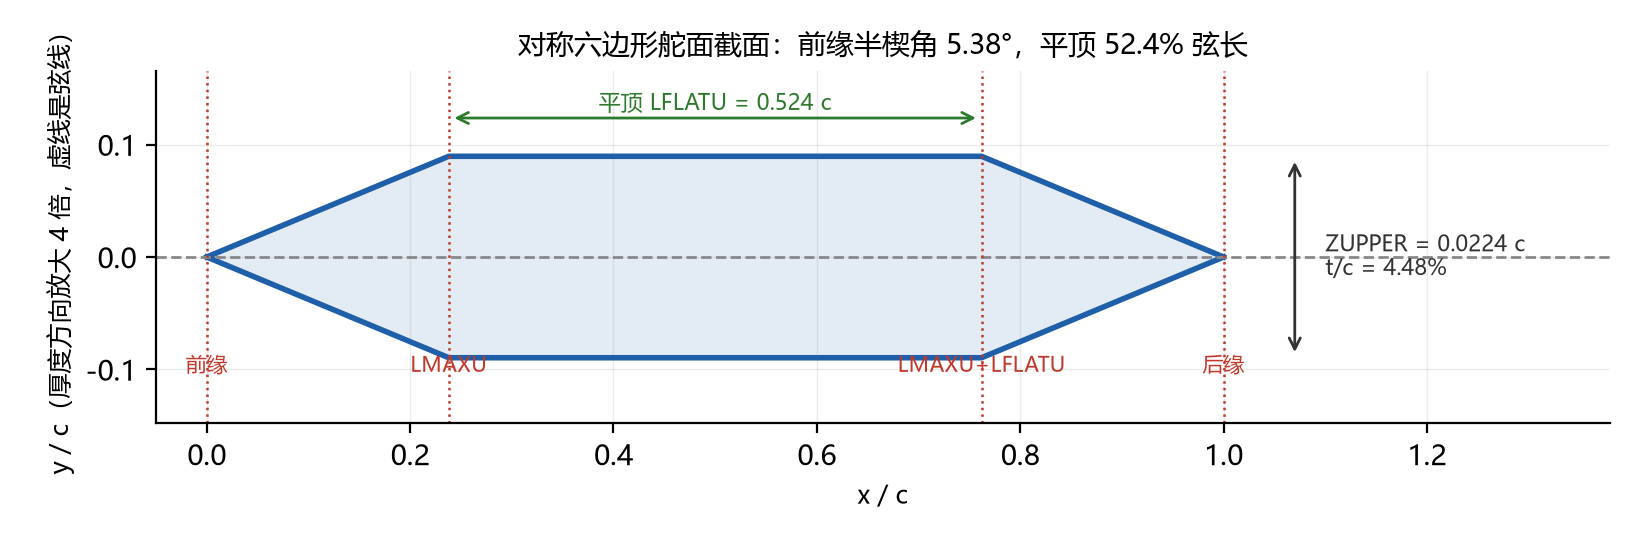
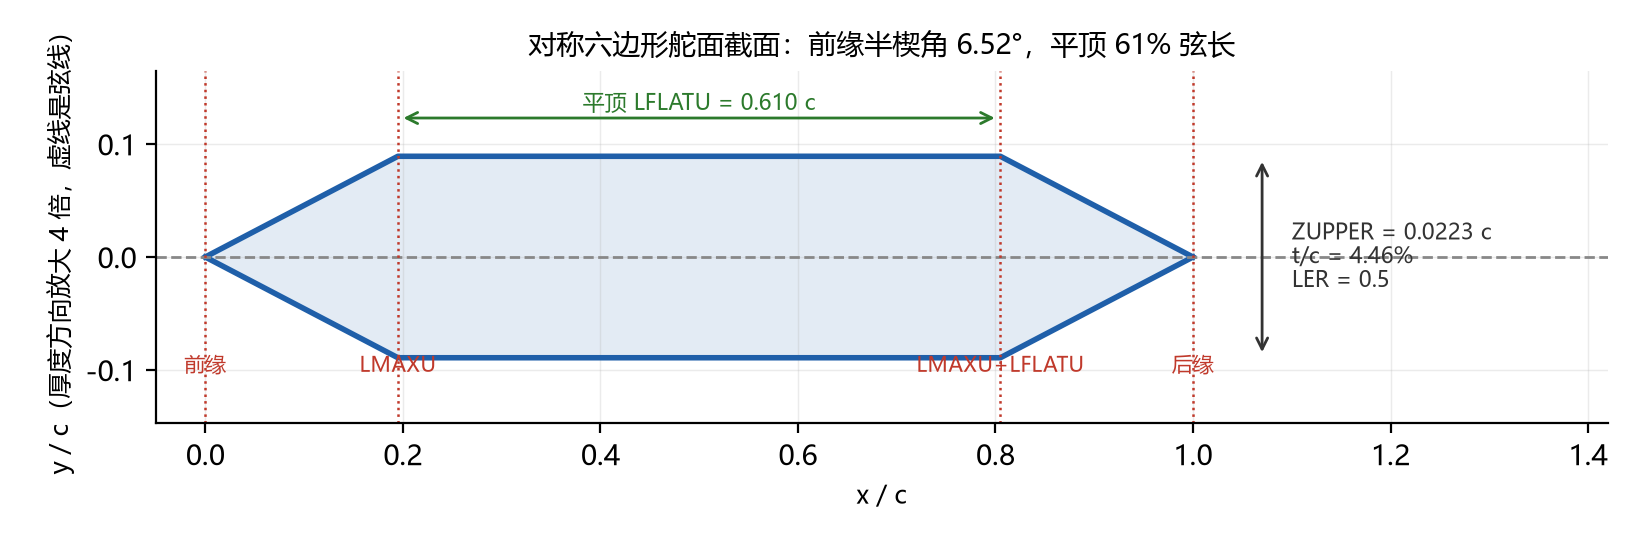
refactor: 翼型模块 naca_section.py 改名为 fin_section.py 并同步全部引用

diff --git a/DATCOM/scripts/04_pointnet_demo.py b/DATCOM/scripts/04_pointnet_demo.py
@@ -26,7 +26,7 @@
         根部弦长 c_root > 梢部弦长 c_tip；前缘后掠量 sweep_le ≡ c_root - c_tip，
         由前者自动派生（不单独填参数），保证后缘始终垂直于弹轴。
     建模方式: 在子午面 (x, r) 内画侧视梯形（根部贴在弹体圆柱表面上），
-    厚度按对称截面（六边形或 NACA）加在周向。翼型参数见 scripts/naca_section.py，
+    厚度按对称截面（六边形或 NACA）加在周向。翼型参数见 scripts/fin_section.py，
     与批量 DATCOM 使用同一份，根梢只是同一剖面按当地弦长缩放。
 
 采样: 默认按 CFD 关键部位加密，总点数不变。舵面、前缘/后缘、根梢、锥顶倒角、
@@ -66,7 +66,7 @@ from pathlib import Path
 
 import numpy as np
 
-from naca_section import FIN_SECTION as DEFAULT_FIN_SECTION, FinSection
+from fin_section import FIN_SECTION as DEFAULT_FIN_SECTION, FinSection
 
 # --------------------------------------------------------------------------- #
 # 输入 / 输出 / 参数配置（命令行参数覆盖这里的运行默认值）
@@ -84,7 +84,7 @@ MAIN_DIMENSIONS = (
     "L_N", "L", "D", "L_W", "C_RW", "C_TW", "B_W", "L_F", "C_RF", "C_TF", "B_F",
 )
 
-# 舵面截面与批量 DATCOM 共用 scripts/naca_section.py 顶部的类型开关和三个参数。
+# 舵面截面与批量 DATCOM 共用 scripts/fin_section.py 顶部的类型开关和三个参数。
 # 改截面类型、厚度、平顶长度或 LER 时，只改那一处。截面保持上下对称。
 FIN_SECTION = DEFAULT_FIN_SECTION
 DEFAULT_N_POINTS = 16384
@@ -194,13 +194,13 @@ class MissileGeometry:
     # --- 弹身 ---
     total_length: float = 3.69          # 总弹长：头部顶点 x=0 → 尾部端面 x=total_length（含头锥）
     body_radius: float = 0.09          # 弹身圆柱半径（尾部半径同值，不区分尾锥）
-    nose_length: float = 0.49           # 圆锥头锥轴向长度（总弹长的一部分）
+    nose_length: float = 0.46           # 圆锥头锥轴向长度（总弹长的一部分）
     nose_tip_fillet_ratio: float = 0.004         # 锥顶倒角半径 = ratio × total_length
     nose_tip_fillet_radius: float | None = None  # 直接给倒角半径(m)，非 None 时覆盖上面的比例
     nose_segments: int = 120           # 头锥母线离散段数
 
     # --- 舵面共同参数 ---
-    # 截面默认取 naca_section 的当前翼型（HEX 六边形 / NACA 四位数）。
+    # 截面默认取 fin_section 的当前翼型（HEX 六边形 / NACA 四位数）。
     # 绝对厚度 = 厚度比 × 当地弦长。
     section: FinSection = field(default_factory=lambda: FIN_SECTION)
     fin_azimuth_deg: tuple = (0.0, 90.0, 180.0, 270.0)  # 一组内 4 片，90° 等距

diff --git a/DATCOM/scripts/01_batch_datcom.py b/DATCOM/scripts/01_batch_datcom.py
@@ -43,7 +43,7 @@ DATCOM 建模约定（改动前务必读）：
        力矩参考点 XCG 默认取 L/2（可用 XCG_M 覆盖）。
     8. STA 固定写 1.0：本机 DATCOM 03/11 在第二个舵面组 STA=2.0 时会
        直接终止且不输出任何结果（已实测），所以两个舵面组都写 1.0。
-    9. 舵面翼型是对称截面，类型和三个参数定义在 scripts/naca_section.py：
+    9. 舵面翼型是对称截面，类型和三个参数定义在 scripts/fin_section.py：
        默认六边形（SECTYP = HEX，LER/ZUPPER/LMAXU/LFLATU 四个数组直接写进
        $FINSET，文件末尾不再有 NACA 卡）；也可以切成 NACA 四位数（SECTYP =
        NACA，截面写在末尾的 NACA-1-4-... 控制卡上）。两套舵面共用同一截面，
@@ -82,7 +82,7 @@ from datetime import datetime
 
 import pandas as pd
 
-from naca_section import FIN_SECTION as DEFAULT_FIN_SECTION, resolve_fin_section
+from fin_section import FIN_SECTION as DEFAULT_FIN_SECTION, resolve_fin_section
 
 # =============================================================================
 # 1. 用户配置区
@@ -145,7 +145,7 @@ TIMEOUT_SECONDS = 300
 # -----------------------------------------------------------------------------
 # 演示用基准几何。正式计算不读这里，只在 --demo 时使用。
 MISSILE_GEOMETRY = {
-    "L_N": 0.49,    # 鼻锥长度
+    "L_N": 0.46,    # 鼻锥长度
     "L": 3.69,      # 轴向总长
     "D": 0.18,      # 机身直径
     "L_W": 1.72,    # 前十字舵轴向位置（弹尖 → 舵根可见前缘）
@@ -186,7 +186,7 @@ CRUCIFORM_COUNT = 4
 # 力矩参考点轴向位置（m）。None = 取 L/2（弹身中点）。
 XCG_M = None
 
-# 舵面翼型。类型与三个默认值在 scripts/naca_section.py 顶部（SECTION_TYPE 选
+# 舵面翼型。类型与三个默认值在 scripts/fin_section.py 顶部（SECTION_TYPE 选
 # "HEX" 或 "NACA"），点云脚本使用同一份。演示算例可在 CASES 里用 "fin_section"
 # 字典覆盖其中几项，键名与所选截面类型的字段相同。
 FIN_SECTION = DEFAULT_FIN_SECTION
@@ -256,7 +256,7 @@ GEOMETRY_CN_NAMES = {
     "B_F": "后舵展长B_F(m)",
 }
 
-# 舵面翼型也进系数表：翼型由 scripts/naca_section.py 的三个参数（截面类型可选）
+# 舵面翼型也进系数表：翼型由 scripts/fin_section.py 的三个参数（截面类型可选）
 # 决定，同一个 geometry_id 的所有工况共用一副截面。表里带上这几列，才能直接
 # 看出这批系数对应哪种截面，不必再去翻 case_params.json。
 # 列名随截面类型变化，由截面类的 CSV_COLUMNS 给出（见 build_for005 写进 meta 的

diff --git a/DATCOM/scripts/fin_section.py b/DATCOM/scripts/fin_section.py
@@ -1,4 +1,4 @@
-# -*- coding: utf-8 -*-
+# -*- coding: utf-8 -*-
 """舵面翼型：对称截面，可切 NACA 四位数（``NACA-1-4-...``）或六边形（``SECTYP = HEX``）。
 
 批量 DATCOM 和点云脚本都从这里取同一副截面，避免两套舵面外形不一致。
@@ -27,8 +27,8 @@
          LFLATU = 0.52400,0.52400,
         $END
 
-``datcom_bin/for005.dat`` 是 DATCOM 自带的历史六边形算例，六边形的默认值
-（0.02238 / 0.238 / 0.524 / 0.015）就照它取的。
+``datcom_bin/for005.dat`` 是 DATCOM 自带的历史六边形算例（0.02238 / 0.238 /
+0.524 / 0.015），可作对照；下面的默认值按当前设计单独取。
 
 改翼型只改下面「参数配置区」：先选 ``SECTION_TYPE``，再改该类型对应的三个默认值。
 01/04 两个脚本都读这一份，不需要改别处。
@@ -61,14 +61,14 @@ SECTION_TYPE = "HEX"
 
 # ---- 六边形参数（SECTION_TYPE = "HEX" 时生效）---
 # 最大厚度，弦长百分数。DATCOM 卡里 ZUPPER = thickness_percent / 200。
-HEX_THICKNESS_PERCENT = 4.48
+HEX_THICKNESS_PERCENT = 4.462
 # 平顶段长度，弦长百分数。LFLATU = flat_percent / 100，
 # 对称六边形的前缘斜坡终点 LMAXU = (1 - LFLATU) / 2。
-HEX_FLAT_PERCENT = 52.4
+HEX_FLAT_PERCENT = 60.995
 # DATCOM 的 LER 卡片值（前缘圆角参数），原样写入，只影响 DATCOM 的气动结果。
 # 口径（绝对英寸还是弦长分数）没能从 DATCOM 手册确认；实测它只改变阻力：
 # 0 -> CD 0.330，0.015 -> 0.349，0.05 -> 0.371，0.15 -> 0.451，0.5 以上饱和。
-HEX_LE_RADIUS = 0.015
+HEX_LE_RADIUS = 0.5
 
 # ---- NACA 四位数参数（SECTION_TYPE = "NACA" 时生效）----
 # 最大厚度，弦长的百分数，写卡时保留两位小数。

diff --git a/DATCOM/README.md b/DATCOM/README.md
@@ -1,4 +1,4 @@
-# DATCOM — 项目目录结构说明
+# DATCOM — 项目目录结构说明
 
 
 ## 一、核心工作目录（必要）
@@ -8,7 +8,7 @@
 DATCOM 程序本体目录，存放 `datcom.exe` 与历史输入模板 `for005.dat`。
 
 `for005.dat` 是旧版手工算例模板（六边形截面，默认翼型参数就照它取的）。`01_batch_datcom.py` 不再改写它，
-而是按几何、来流和 `scripts/naca_section.py` 里的截面参数整份生成 `for005.dat`。
+而是按几何、来流和 `scripts/fin_section.py` 里的截面参数整份生成 `for005.dat`。
 
 不要把算例结果放在这里。`01_batch_datcom.py` 把结果写到 `../data_lib/runs/low/<geometry_id>/`，运行中的协议文件放在 `../data_lib/runs/low/.work/`。
 
@@ -18,13 +18,13 @@ DATCOM 程序本体目录，存放 `datcom.exe` 与历史输入模板 `for005.da
 
 | 文件 | 用途 |
 | --- | --- |
-| `01_batch_datcom.py` | DATCOM 批量计算主脚本：输入工作区 README 的 14 个几何参数与来流条件。11 个主尺寸来自总表，3 个翼型参数来自 `naca_section.py`。脚本自动生成 `for005.dat`、调用 `datcom.exe`、解析气动系数，并输出几何核对报告与三视图 |
+| `01_batch_datcom.py` | DATCOM 批量计算主脚本：输入工作区 README 的 14 个几何参数与来流条件。11 个主尺寸来自总表，3 个翼型参数来自 `fin_section.py`。脚本自动生成 `for005.dat`、调用 `datcom.exe`、解析气动系数，并输出几何核对报告与三视图 |
 | `04_pointnet_demo.py` | 导弹外形点云数据集生成（PointNet 演示，自带几何校验和三视图预览） |
-| `naca_section.py` | 对称舵面截面：可切六边形（`SECTYP = HEX`）或 NACA 四位数，三个参数与外形方程都在这。批量 DATCOM 与点云共用这一份。怎么定参数见文末「四、舵面翼型」 |
+| `fin_section.py` | 对称舵面截面：可切六边形（`SECTYP = HEX`）或 NACA 四位数，三个参数与外形方程都在这。批量 DATCOM 与点云共用这一份。怎么定参数见文末「四、舵面翼型」 |
 
 
 
-`04_pointnet_demo.py` 默认把点云写到 `../data_lib/datasets/point_clouds/`。不带几何标识时文件名仍是 `missile_<N>.*`。用 `--geometry-id` 或 `--params` 读入总表的 11 个主尺寸，翼型取 `naca_section.py` 的三个参数，合计 14 个几何参数；带几何标识时主文件是 `<geometry_id>_pointcloud.ply`。默认 16384 点，并按 CFD 关键部位加密表面点：舵面、前缘后缘、根梢、锥顶倒角、头锥肩部、舵身交界和尾部底缘。总点数不变。脚本前部 `CFD_REFINEMENT_ENABLED = False` 可恢复按面积均匀采样。点云仍是表面点，不是 CFD 体网格。点数和文件格式仍沿用脚本里的现有演示，工作流侧的最终格式还待定。
+`04_pointnet_demo.py` 默认把点云写到 `../data_lib/datasets/point_clouds/`。不带几何标识时文件名仍是 `missile_<N>.*`。用 `--geometry-id` 或 `--params` 读入总表的 11 个主尺寸，翼型取 `fin_section.py` 的三个参数，合计 14 个几何参数；带几何标识时主文件是 `<geometry_id>_pointcloud.ply`。默认 16384 点，并按 CFD 关键部位加密表面点：舵面、前缘后缘、根梢、锥顶倒角、头锥肩部、舵身交界和尾部底缘。总点数不变。脚本前部 `CFD_REFINEMENT_ENABLED = False` 可恢复按面积均匀采样。点云仍是表面点，不是 CFD 体网格。点数和文件格式仍沿用脚本里的现有演示，工作流侧的最终格式还待定。
 
 ### `../data_lib/runs/low/`（运行结果，项目外）
 
@@ -89,7 +89,7 @@ VS Code 编辑器配置文件（`settings.json` 等）。属于 IDE 工具配置
 1. 正式输入是工作区的 `data_lib/inputs/cases.csv`。每一行是一个工况，列依次为
    `geometry_id`、`condition_id`、11 个主尺寸、`Ma`、`alpha_deg`、`altitude_m`。
    翼型截面类型（`SECTION_TYPE`：六边形或 NACA）和三个翼型参数
-   写在 `scripts/naca_section.py`，前舵和后舵共用。同一个 `geometry_id` 的 11 个主尺寸必须相同。
+   写在 `scripts/fin_section.py`，前舵和后舵共用。同一个 `geometry_id` 的 11 个主尺寸必须相同。
    同一个 `geometry_id` 和同一个 `altitude_m` 单元格的来流必须是这些马赫数和攻角的完整组合。
 2. 直接运行 `python scripts/01_batch_datcom.py` 就会读取这张表。脚本顶部的
    `MISSILE_GEOMETRY`、`MACH_LIST`、`ALPHA_LIST` 和 `CASES` 只在 `--demo` 时使用。
@@ -134,7 +134,7 @@ python scripts/01_batch_datcom.py --demo --mach 2.0 2.2 --alpha 4.0 6.0 --alt 50
 
 ## 四、舵面翼型
 
-14 个几何参数里的翼型三项，就是 `scripts/naca_section.py` 顶部的三个默认值。改翼型只改那里。点云和 DATCOM 都读这一份，根部和梢部是同一副截面，按当地弦长等比缩放（等 t/c），弯度固定为 0，中弧与弦线重合，上下对称。
+14 个几何参数里的翼型三项，就是 `scripts/fin_section.py` 顶部的三个默认值。改翼型只改那里。点云和 DATCOM 都读这一份，根部和梢部是同一副截面，按当地弦长等比缩放（等 t/c），弯度固定为 0，中弧与弦线重合，上下对称。
 
 默认是**对称六边形**（DATCOM `SECTYP = HEX`）。文件顶部的 `SECTION_TYPE` 写 `"HEX"` 用六边形、写 `"NACA"` 用对称四位数翼型；两种截面各有一组三个默认值，切换只改这个开关，其余代码不用动。
 
@@ -147,24 +147,26 @@ $FINSET1
  SECTYP = HEX,
  ...
  STA = 1.0,
- LER = 0.01500,0.01500,
- ZUPPER = 0.02240,0.02240,
- LMAXU = 0.23800,0.23800,
- LFLATU = 0.52400,0.52400,
+ LER = 0.50000,0.50000,
+ ZUPPER = 0.02230,0.02230,
+ LMAXU = 0.19500,0.19500,
+ LFLATU = 0.61000,0.61000,
 $END
 ```
 
-四个数组都是**弦长分数**，根、梢各一个值（默认按等 t/c，所以两站同值）。默认值照 `datcom_bin/for005.dat` 取——那是 DATCOM 自带的历史六边形算例。
+四个数组都是**弦长分数**，根、梢各一个值（默认按等 t/c，所以两站同值）。当前默认值见 `fin_section.py` 顶部；`datcom_bin/for005.dat` 是 DATCOM 自带的历史六边形算例（0.02238 / 0.238 / 0.524 / 0.015），可以当对照。
 
-![对称六边形舵面截面：尖前缘，最厚处在 0.238–0.762 倍弦长](hex_airfoil.png)
+![对称六边形舵面截面：尖前缘，最厚处在一段平顶上](hex_airfoil.png)
 
 上图按默认截面绘制，厚度方向放大 4 倍，虚线是弦线。
 
 | 参数 | 默认 | 对应 DATCOM 卡 | 改它会动哪里 | 允许值 |
 | --- | --- | --- | --- | --- |
-| `thickness_percent` | 4.48 | `ZUPPER = 该值 / 200` | 上下表面间距，总厚度 = 该值 × 弦长 / 100 | 大于 0、小于 40 |
-| `flat_percent` | 52.4 | `LFLATU = 该值 / 100` | 平顶段长度；对称时 `LMAXU = (1 − LFLATU)/2` 自动派生 | 大于等于 0、小于 100 |
-| `le_radius` | 0.015 | `LER` | 只进 DATCOM 的气动阻力项，点云仍按尖前缘画 | 大于等于 0 |
+| `thickness_percent` | 4.46 | `ZUPPER = 该值 / 200` | 上下表面间距，总厚度 = 该值 × 弦长 / 100 | 大于 0、小于 40 |
+| `flat_percent` | 61.0 | `LFLATU = 该值 / 100` | 平顶段长度；对称时 `LMAXU = (1 − LFLATU)/2` 自动派生 | 大于等于 0、小于 100 |
+| `le_radius` | 0.5 | `LER` | 只进 DATCOM 的气动阻力项，点云仍按尖前缘画 | 大于等于 0 |
+
+> `le_radius` 实测在 0.5 处已饱和：0.5 与 1.0 的输出完全相同（CD 0.457），0.15 是 0.451，相当于"前缘圆角开到最大"。要真正区分前缘钝度，取 0–0.15 之间。
 
 几何关系：
 
@@ -176,14 +178,14 @@ tan(前缘半楔角) = ZUPPER / LMAXU          截面积 / c² = ZUPPER × (1 + 
 三个参数按这个顺序定：
 
 1. **厚度**：`thickness_percent` 就是想要的 t/c。物理厚度 = t/c × 当地弦长：后舵根弦 0.38 m 时整片约 17 mm，前舵梢弦 0.06 m 时约 2.7 mm。若要"等绝对厚度"贯穿全展，得按当地弦长把两站折成不同的 `ZUPPER`（当前代码固定按等 t/c 写两站同值）。
-2. **平顶长度**：由想控制的**前缘半楔角**反推，`LFLATU = 1 − 2·ZUPPER / tanθ`。t/c = 4.48% 时：
+2. **平顶长度**：由想控制的**前缘半楔角**反推，`LFLATU = 1 − 2·ZUPPER / tanθ`。以 t/c = 4.48% 为例：
 
 | 前缘半楔角 θ (deg) | 4 | 5 | **5.38** | 6 | 8 | 10 | 12 |
 | --- | --- | --- | --- | --- | --- | --- | --- |
 | `LFLATU` | 0.359 | 0.488 | **0.524** | 0.574 | 0.681 | 0.746 | 0.789 |
 
-默认那组 4.48% / 0.524 对应的半楔角是 **5.38°**，这是超声速舵面的常见量级。
-3. **前缘**：`le_radius` 取 0.005–0.015（模板 0.015）。别填 0.0001 这种极小非零值——实测该档 CL 会异常跳动。
+表里 4.48% / 0.524 那一列是 DATCOM 历史模板的取法（半楔角 5.38°）。当前默认 4.46% / 0.61 对应半楔角 6.52°，平顶更长、前缘更尖。
+3. **前缘**：`le_radius` 取 0.005–0.15 之间才有分辨力（0.5 起饱和，见上表注）。别填 0.0001 这种极小非零值——实测该档 CL 会异常跳动。
 
 **换六边形必须知道的四条**（都在本机 rev 03/11 上实测）：
 
@@ -194,9 +196,9 @@ tan(前缘半楔角) = ZUPPER / LMAXU          截面积 / c² = ZUPPER × (1 + 
 
 ### 2. NACA 四位数（可切回）
 
-`SECTION_TYPE` 改成 `"NACA"` 就回到旧口径：`SECTYP = NACA`，截面写在文件末尾的两张控制卡上，默认是 `NACA-1-4-0004.48-63` 和 `NACA-2-4-0004.48-63`。三个参数是 `thickness_percent`、`le_radius_index`（整数 0–9）、`max_thickness_tenths`（只允许 2、3、4、5、6），卡片拼法见 `naca_section.py` 里的 `NacaSection`，示意图仍是 `naca_airfoil.png`。
+`SECTION_TYPE` 改成 `"NACA"` 就回到旧口径：`SECTYP = NACA`，截面写在文件末尾的两张控制卡上，默认是 `NACA-1-4-0004.48-63` 和 `NACA-2-4-0004.48-63`。三个参数是 `thickness_percent`、`le_radius_index`（整数 0–9）、`max_thickness_tenths`（只允许 2、3、4、5、6），卡片拼法见 `fin_section.py` 里的 `NacaSection`，示意图仍是 `naca_airfoil.png`。
 
-两种口径的实测对照（同一外形、α = 3°）：六边形 4.48%/52.4% 与 NACA 0004.48-63 的 CL 都是 1.589，CD 分别是 0.365 和 0.364。换成六边形不会推翻历史结果，但系数表里会多出另一组列名。
+两种口径的实测对照（同一外形、α = 3°）：六边形（4.48% 厚、52.4% 平顶、LER 0.015）与 NACA 0004.48-63 的 CL 都是 1.589，CD 分别是 0.365 和 0.364。换成六边形不会推翻历史结果，但系数表里会多出另一组列名。
 
 ### 3. 系数表里的翼型列
 

diff --git a/README.md b/README.md
@@ -6,7 +6,7 @@
 
 ### 几何参数定义与范围
 
-外形用 14 个几何参数描述：下面 11 个主尺寸，以及随后 3 个舵面翼型参数。11 个主尺寸的长度单位是米（m），参数名与建模输入 JSON 的字段一致，也是 `data_lib/inputs/cases.csv` 里的几何列。3 个翼型参数前舵和后舵共用，定义在 `DATCOM/scripts/naca_section.py`，点云脚本读取同一份。
+外形用 14 个几何参数描述：下面 11 个主尺寸，以及随后 3 个舵面翼型参数。11 个主尺寸的长度单位是米（m），参数名与建模输入 JSON 的字段一致，也是 `data_lib/inputs/cases.csv` 里的几何列。3 个翼型参数前舵和后舵共用，定义在 `DATCOM/scripts/fin_section.py`，点云脚本读取同一份。
 
 | 设计变量 | 定义 | 下限 / m | 上限 / m | 基准 / m |
 |---|---|---|---|---|
@@ -26,15 +26,18 @@
 
 表中保留原图的设计范围。当前建模程序会将小于 0.001 m 的非负梢弦长自动修正为 0.001 m，具体建模约定见 [SpaceClaim 参数化建模说明](spaceclaim/README.md#参数化建模)。
 
-舵面翼型是对称 NACA 四位数，弯度固定为 0，中弧与弦线重合。三个参数的允许值来自翼型编码。基准值就是 `naca_section.py` 的默认值。控制卡写法见 [DATCOM 说明](DATCOM/README.md) 的「四、舵面翼型」。
+舵面翼型参数一共 3 个，但具体是哪 3 个取决于截面类型。DATCOM 与点云的默认截面是**对称六边形**（弯度 0，中弧与弦线重合）；也可以切成对称 NACA 四位数。基准值就是 `fin_section.py` 顶部的默认值。控制卡写法见 [DATCOM 说明](DATCOM/README.md) 的「四、舵面翼型」。
 
-| 设计变量 | 定义 | 允许值 | 基准 |
-|---|---|---|---|
-| `thickness_percent` | 最大厚度，占弦长的百分数；只沿厚度方向缩放 | 大于 0、小于 40；写卡时四舍五入到 0.01 | 4.48 |
-| `le_radius_index` | 前缘半径指数。0 是尖前缘，6 是标准圆前缘，再大更钝 | 整数 0–9 | 6 |
-| `max_thickness_tenths` | 最大厚度距前缘的弦向位置，单位是 1/10 弦长 | 2、3、4、5、6 | 3 |
+| 截面 | 设计变量 | 定义 | 允许值 | 基准 |
+|---|---|---|---|---|
+| 六边形（默认） | `thickness_percent` | 最大厚度，占弦长的百分数 | 大于 0、小于 40 | 4.46 |
+| | `flat_percent` | 平顶段长度，占弦长的百分数；对称时最厚处从 `(1−flat)/2` 开始 | 大于等于 0、小于 100 | 61.0 |
+| | `le_radius` | DATCOM 的 LER 卡片值（前缘圆角参数），只进 DATCOM，点云按尖前缘画 | 大于等于 0；0.5 起饱和 | 0.5 |
+| NACA（可切回） | `thickness_percent` | 最大厚度，占弦长的百分数 | 大于 0、小于 40 | 4.48 |
+| | `le_radius_index` | 前缘半径指数，6 是标准圆前缘 | 整数 0–9 | 6 |
+| | `max_thickness_tenths` | 最大厚度距前缘的弦向位置，单位 1/10 弦长 | 2、3、4、5、6 | 3 |
 
-SpaceClaim 默认使用上表三个翼型参数给前后舵放样，平面形状仍由根弦、梢弦和展长决定，并另外使用头部倒圆 `k_nose`、`k_tip`。翼型方程与 `DATCOM/scripts/naca_section.py` 相同。`fin_section=hexagon` 时改为尖前缘、尖后缘的对称六边形，厚度仍用 `thickness_percent`，等厚段由 `hex_flat_start`、`hex_flat_end` 决定；这一选择只存在于 SpaceClaim 建模，不改变上表的 14 个几何参数。
+SpaceClaim 默认使用 NACA 那一组（`fin_section=naca`）给前后舵放样，平面形状仍由根弦、梢弦和展长决定，并另外使用头部倒圆 `k_nose`、`k_tip`。翼型方程与 `DATCOM/scripts/fin_section.py` 相同。`fin_section=hexagon` 时改为尖前缘、尖后缘的对称六边形，厚度仍用 `thickness_percent`，等厚段由 `hex_flat_start`、`hex_flat_end` 决定；这一选择只存在于 SpaceClaim 建模，不改变上表的 14 个几何参数。**注意**：DATCOM/点云默认已是六边形，SpaceClaim 默认仍是 NACA，要让两边同源，需把 SpaceClaim 的 `fin_section` 设成 `hexagon` 并把三处数值对齐。
 
 ### 来流参数与工况组合
 
@@ -141,7 +144,7 @@ SpaceClaim 默认使用上表三个翼型参数给前后舵放样，平面形状
 
 | 下级 | 类型 | 作用 |
 |---|---|---|
-| `inputs/` | 目录 | 参数与原始输入：`cases.csv` 的几何列是 11 个主尺寸（当前 4 行试算，`geometry_id` 暂为 `1`）。翼型三项在 `DATCOM/scripts/naca_section.py`，几何参数共 14 个。另有 `missile_params_example.json`、`params_mine.json` |
+| `inputs/` | 目录 | 参数与原始输入：`cases.csv` 的几何列是 11 个主尺寸（当前 4 行试算，`geometry_id` 暂为 `1`）。翼型三项在 `DATCOM/scripts/fin_section.py`，几何参数共 14 个。另有 `missile_params_example.json`、`params_mine.json` |
 | `queues/` | 目录 | 阶段队列与训练轮次：`spaceclaim.json`、`fluent_meshing.json`、`fluent_solution.json`、`datcom.json`、`ml.json`。记录仍为空 |
 | `datasets/` | 目录 | 数据集。直接下级 `point_clouds/` 接收 `04_pointnet_demo.py` 的点云，外形由 14 个几何参数决定，点数和最终格式仍待定 |
 | `runs/` | 目录 | 高保真 `high/<run-id>/<阶段>/`，低保真 `low/<geometry_id>/`。运行产物不入库，说明文件入库 |
@@ -215,7 +218,7 @@ python DATCOM/scripts/01_batch_datcom.py
 | `{geometry_id}_case_params.json` | 参数快照，含冻结的舵面相位、后缘对齐和力矩参考点 |
 | `{geometry_id}_datcom.log` | 该次调用的标准输出和标准错误 |
 
-点云由 `DATCOM/scripts/04_pointnet_demo.py` 生成。`--geometry-id` 从总表读取 11 个主尺寸，`--params` 读取一份同名字段的 JSON，翼型取 `naca_section.py` 的三个参数。这 14 个几何参数一起决定外形。默认写到 `data_lib/datasets/point_clouds/`。带几何标识时主文件是 `<geometry_id>_pointcloud.ply`。点数和最终格式仍待定。闭环训练放在 `ML_training/` 这一预留模块里。
+点云由 `DATCOM/scripts/04_pointnet_demo.py` 生成。`--geometry-id` 从总表读取 11 个主尺寸，`--params` 读取一份同名字段的 JSON，翼型取 `fin_section.py` 的三个参数。这 14 个几何参数一起决定外形。默认写到 `data_lib/datasets/point_clouds/`。带几何标识时主文件是 `<geometry_id>_pointcloud.ply`。点数和最终格式仍待定。闭环训练放在 `ML_training/` 这一预留模块里。
 
 当前总表有 4 行试算：`geometry_id` 暂为 `1`，高度 `0`，工况 C01、C02、C06、C07，归档在 `data_lib/runs/low/1/`。早先写到 `data_lib/datcom_data/` 的结果保留作历史记录。
 

diff --git a/AGENTS.md b/AGENTS.md
@@ -16,7 +16,7 @@
 - Keep folder structure and `README.md` files in sync. Any change that adds, removes, renames or moves a directory must update the corresponding `README.md` in the same change, so that it lists that directory's direct children and their purpose. The workspace root covers the top level and one level below; every other directory documents its own direct children.
 - A structure change without its matching README update is incomplete work. A README entry that no longer matches the tree is a defect, not documentation debt. Dependency, generated and cache directories are documented too, marked as not version-controlled and not to be edited by hand.
 - Use `workspace.json` and script-relative paths. Discover ANSYS through AWP variables or its supported local setup configuration; keep installation paths and credentials out of source and reports.
-- Keep runtime models, meshes and logs outside code repositories. Write high-fidelity records under `data_lib/runs/high/<run-id>/<stage>/` and low-fidelity DATCOM archives under `data_lib/runs/low/<geometry_id>/`; retain failed artifacts under `feedback`. Geometry is 14 parameters: 11 length dimensions in `data_lib/inputs/cases.csv`, plus the three shared fin-section parameters `thickness_percent`, `le_radius_index`, and `max_thickness_tenths` in `DATCOM/scripts/naca_section.py`. `DATCOM/scripts/01_batch_datcom.py` reads that table and calls once per `geometry_id` plus `altitude_m`. `DATCOM/scripts/04_pointnet_demo.py` writes point clouds to `data_lib/datasets/point_clouds/` from `--geometry-id` or `--params` for the 11 lengths, and uses the same airfoil section. SpaceClaim uses the same three fin-section parameters, plus `k_nose` and `k_tip`. Identifier encoding, confidence, added-point range, final point-cloud format, the solver, and post-report adjustment authority stay undecided.
+- Keep runtime models, meshes and logs outside code repositories. Write high-fidelity records under `data_lib/runs/high/<run-id>/<stage>/` and low-fidelity DATCOM archives under `data_lib/runs/low/<geometry_id>/`; retain failed artifacts under `feedback`. Geometry is 14 parameters: 11 length dimensions in `data_lib/inputs/cases.csv`, plus three shared fin-section parameters in `DATCOM/scripts/fin_section.py`. The section type is switchable: the default hexagon uses `thickness_percent`, `flat_percent`, and `le_radius` (DATCOM `SECTYP = HEX`); the NACA option uses `thickness_percent`, `le_radius_index`, and `max_thickness_tenths` (DATCOM `NACA-1-4-...`). `DATCOM/scripts/01_batch_datcom.py` reads that table and calls once per `geometry_id` plus `altitude_m`. `DATCOM/scripts/04_pointnet_demo.py` writes point clouds to `data_lib/datasets/point_clouds/` from `--geometry-id` or `--params` for the 11 lengths, and uses the same airfoil section. SpaceClaim uses the same three fin-section parameters, plus `k_nose` and `k_tip`. Identifier encoding, confidence, added-point range, final point-cloud format, the solver, and post-report adjustment authority stay undecided.
 - Existing historical records are evidence snapshots, not fresh acceptance results.
 - Preserve dependency versions and Git/untracked content during migration. `_deps` and `.mesh_inspect_deps` use different Python/NumPy environments and must not be combined.
 - Validate resolved absolute paths before filesystem moves or removals. Use a complete verified snapshot for rollback, preserving newer files rather than overwriting them.

diff --git a/data_lib/README.md b/data_lib/README.md
@@ -1,8 +1,8 @@
 # 文件数据仓库
 
-- `inputs/`：参数与原始输入。`cases.csv` 是工作流输入总表，一行一个工况，几何列是 11 个主尺寸，并包含 `altitude_m`。翼型三个参数 `thickness_percent`、`le_radius_index`、`max_thickness_tenths` 的基准值在 `DATCOM/scripts/naca_section.py`。几何参数一共 14 个。当前有 4 行试算：`geometry_id` 暂为 `1`，高度 `0`，工况 C01、C02、C06、C07。标识符编码仍待定。`missile_params_example.json` 填写 11 个主尺寸；`params_mine.json` 是配套提示词使用的自有参数。
+- `inputs/`：参数与原始输入。`cases.csv` 是工作流输入总表，一行一个工况，几何列是 11 个主尺寸，并包含 `altitude_m`。翼型三个参数 `thickness_percent`、`le_radius_index`、`max_thickness_tenths` 的基准值在 `DATCOM/scripts/fin_section.py`。几何参数一共 14 个。当前有 4 行试算：`geometry_id` 暂为 `1`，高度 `0`，工况 C01、C02、C06、C07。标识符编码仍待定。`missile_params_example.json` 填写 11 个主尺寸；`params_mine.json` 是配套提示词使用的自有参数。
 - `queues/`：五份队列。四份阶段队列按工况记录状态，`ml.json` 按训练轮次记录。字段见 `queues/README.md`。这 4 行试算还没有写入队列。
-- `datasets/`：数据集。`point_clouds/` 接收 `DATCOM/scripts/04_pointnet_demo.py` 的点云。脚本用 `--geometry-id` 或 `--params` 读取 11 个主尺寸，并套用 `naca_section.py` 的 3 个翼型参数。点数和最终格式仍待定。
+- `datasets/`：数据集。`point_clouds/` 接收 `DATCOM/scripts/04_pointnet_demo.py` 的点云。脚本用 `--geometry-id` 或 `--params` 读取 11 个主尺寸，并套用 `fin_section.py` 的 3 个翼型参数。点数和最终格式仍待定。
 - `runs/`：运行目录。高保真在 `high/<run-id>/<阶段>/`，`<run-id>` 是 `run-<时间戳>-<短ID>`。低保真在 `low/<geometry_id>/`。说明见 `runs/README.md`。
 - `datcom_data/`：早先 DATCOM 脚本写出的算例结果，保留作历史记录。当前 `01_batch_datcom.py` 改写到 `runs/low/<geometry_id>/`。
 - `legacy/`：历史模型、网格、日志和 workflow，保留原文件内容；`migration-manifest.json` 解释旧路径与来源。

diff --git a/DATCOM/AGENTS.md b/DATCOM/AGENTS.md
@@ -3,7 +3,7 @@
 给所有 AI 编码代理（Claude Code / DSH / Codex等）修改本项目代码时的行为准则，动代码前先通读。
 
 ## 布局速览
-- `scripts/`：Python 代码。几何参数一共 14 个：`data_lib/inputs/cases.csv` 里的 11 个主尺寸，加上 `naca_section.py` 里前舵和后舵共用的 3 个翼型参数 `thickness_percent`、`le_radius_index`、`max_thickness_tenths`。`01_batch_datcom.py` 读取总表，同一个 `geometry_id` 加同一个 `altitude_m` 调用一次 DATCOM，翼型取 `naca_section.py` 的当前值。`04_pointnet_demo.py` 用 `--geometry-id` 或 `--params` 读取 11 个主尺寸，翼型与批量计算共用这一份，并写点云。翼型参数与外形方程在 `naca_section.py`。
+- `scripts/`：Python 代码。几何参数一共 14 个：`data_lib/inputs/cases.csv` 里的 11 个主尺寸，加上前舵和后舵共用的 3 个翼型参数，翼型可以选择naca或者六边形，通过一个对象（包括一个类别和三个参数）来进行切换。`01_batch_datcom.py` 读取总表，同一个 `geometry_id` 加同一个 `altitude_m` 调用一次 DATCOM。`04_pointnet_demo.py` 用 `--geometry-id` 或 `--params` 读取 11 个主尺寸，翼型与批量计算共用这一份，并写点云。
 - `datcom_bin/`（datcom.exe、for005.dat 模板）**不入 git**；DATCOM 算例结果写在项目外的 `../data_lib/runs/low/<geometry_id>/`（位置由脚本顶部 `RESULT_ROOT` 决定），点云默认写到 `../data_lib/datasets/point_clouds/`。项目目录里不再保留旧结果目录。
 - 版本管理：当前 `DATCOM/` 目录没有独立 Git 仓库；需要提交时，先返回上一级目录，使用上一级 Git 仓库。源码/配置改动按上一级仓库的跟踪范围提交；产物目录不提交。
 

diff --git a/data_lib/datasets/point_clouds/README.md b/data_lib/datasets/point_clouds/README.md
@@ -1,6 +1,6 @@
 # 点云
 
-每个 `geometry_id` 对应一份点云。外形使用 14 个几何参数。`DATCOM/scripts/04_pointnet_demo.py` 用 `--geometry-id` 从 `data_lib/inputs/cases.csv` 读取 11 个主尺寸，或用 `--params` 读一份同名字段的 JSON；翼型三个参数 `thickness_percent`、`le_radius_index`、`max_thickness_tenths` 来自 `DATCOM/scripts/naca_section.py`。默认写到本目录。带几何标识时主文件是 `<geometry_id>_pointcloud.ply`。点数和最终格式仍待定。
+每个 `geometry_id` 对应一份点云。外形使用 14 个几何参数。`DATCOM/scripts/04_pointnet_demo.py` 用 `--geometry-id` 从 `data_lib/inputs/cases.csv` 读取 11 个主尺寸，或用 `--params` 读一份同名字段的 JSON；翼型三个参数 `thickness_percent`、`le_radius_index`、`max_thickness_tenths` 来自 `DATCOM/scripts/fin_section.py`。默认写到本目录。带几何标识时主文件是 `<geometry_id>_pointcloud.ply`。点数和最终格式仍待定。
 
 本目录已有不带几何标识的演示结果：`missile_8192.*`、`missile_16384.*` 和 `missile_surface.obj`。按 `geometry_id` 命名的点云尚未生成。
 

diff --git a/data_lib/datasets/README.md b/data_lib/datasets/README.md
@@ -2,5 +2,5 @@
 
 | 下级 | 类型 | 作用 |
 |---|---|---|
-| `point_clouds/` | 目录 | 按几何标识存放的点云。外形由 14 个几何参数决定：`04_pointnet_demo.py` 用 `--geometry-id` 或 `--params` 读取 11 个主尺寸，翼型三个参数来自 `DATCOM/scripts/naca_section.py`。点数和最终格式仍待定 |
+| `point_clouds/` | 目录 | 按几何标识存放的点云。外形由 14 个几何参数决定：`04_pointnet_demo.py` 用 `--geometry-id` 或 `--params` 读取 11 个主尺寸，翼型三个参数来自 `DATCOM/scripts/fin_section.py`。点数和最终格式仍待定 |
 | `README.md` | 文件 | 本文件 |
